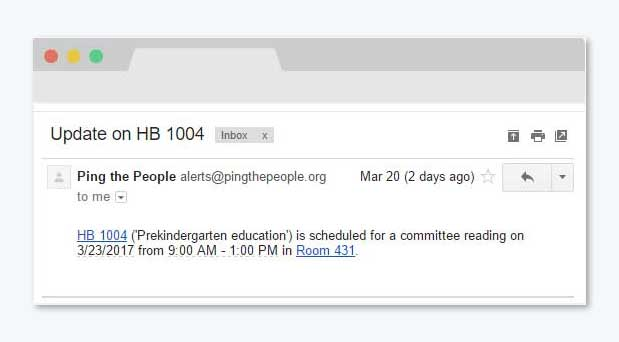
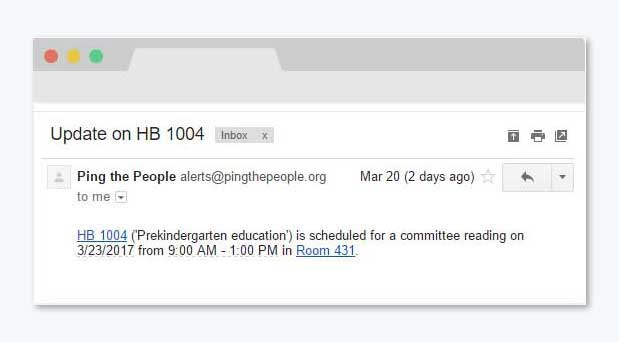
update screenshots to reflect new styles

Changed region(s): [[0.0614, 0.848, 0.9208, 0.8772]]

diff --git a/resources/assets/sass/_home.scss b/resources/assets/sass/_home.scss
@@ -6,6 +6,7 @@
     background: radial-gradient(ellipse at center, rgba(252,252,252,1) 0%,rgba(226,226,226,1) 100%); /* W3C, IE10+, FF16+, Chrome26+, Opera12+, Safari7+ */
     filter: progid:DXImageTransform.Microsoft.gradient( startColorstr='#fcfcfc', endColorstr='#e2e2e2',GradientType=1 ); /* IE6-9 fallback on horizontal gradient */
 
+    box-shadow: inset 0 -6px 12px #ddd;
     text-align: center;
     padding: 4em 0;
 

diff --git a/resources/views/guest.blade.php b/resources/views/guest.blade.php
@@ -14,9 +14,9 @@
 
             <h1 class="hero__welcome">Welcome to <strong>Ping the People</strong></h1>
 
-            <p><a class="button button--large button--fb" href="http://ping.dev/login-via-facebook">Log in with Facebook</a>
+            <p><a class="button button--large button--fb" href="{{url('/login-via-facebook')}}">Log in with Facebook</a>
 
-                <a class="button button--large button--google" href="http://ping.dev/login-via-google">Log in with Google</a></p>
+                <a class="button button--large button--google" href="{{url('/login-via-google')}}">Log in with Google</a></p>
         </div>
     </div>
     <div class="home-section">
@@ -32,13 +32,13 @@
             <aside class="intro__aside right">
                 <h3>Search for topics important to you</h3>
                 <div>
-                    <img src="{{asset('images/homepage/discover.png')}}" alt="A screenshot of the search UI; the results of a search for 'kindergarten' shows bill HB 1004, Prekindergarten Education, along with details about the bill subject, description, committee, and an option to watch the bill">
+                    <img src="{{asset('images/homepage/discover.jpg')}}" alt="A screenshot of the search UI; the results of a search for 'kindergarten' shows bill HB 1004, Prekindergarten Education, along with details about the bill subject, description, committee, and an option to watch the bill">
                 </div>
             </aside>
 
             <aside class="intro__aside">
                 <h3>Track the status of  legislation</h3>
-                <div><img src="{{asset('images/homepage/track.png')}}" alt="A screenshot of the Watchlist UI; the prekindergarten bill from the previous screenshot is displayed, along with its most recent and upcoming actions, and options to receive alerts via email and SMS"></div>
+                <div><img src="{{asset('images/homepage/track.jpg')}}" alt="A screenshot of the Watchlist UI; the prekindergarten bill from the previous screenshot is displayed, along with its most recent and upcoming actions, and options to receive alerts via email and SMS"></div>
             </aside>
 
             <aside class="intro__aside right">
